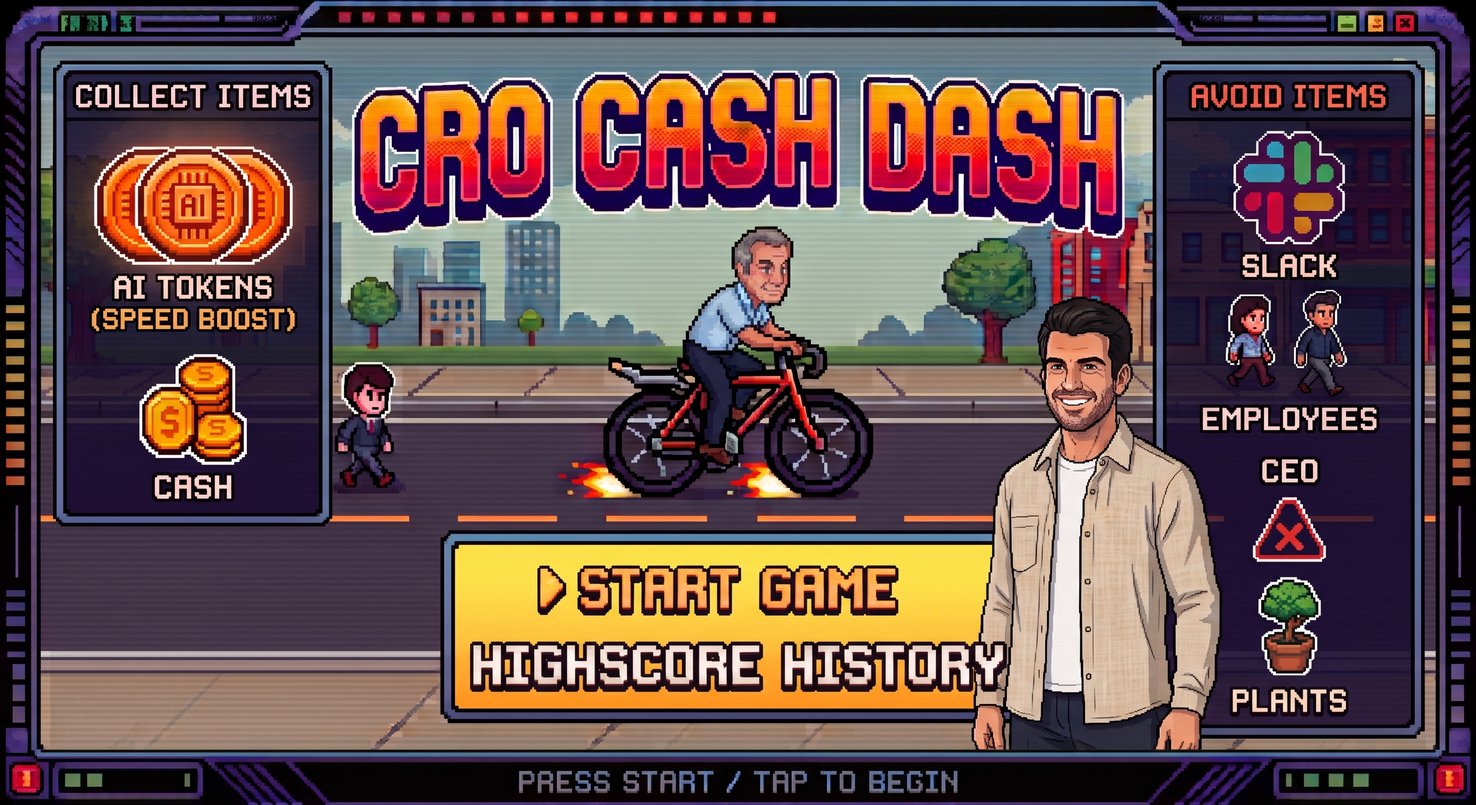
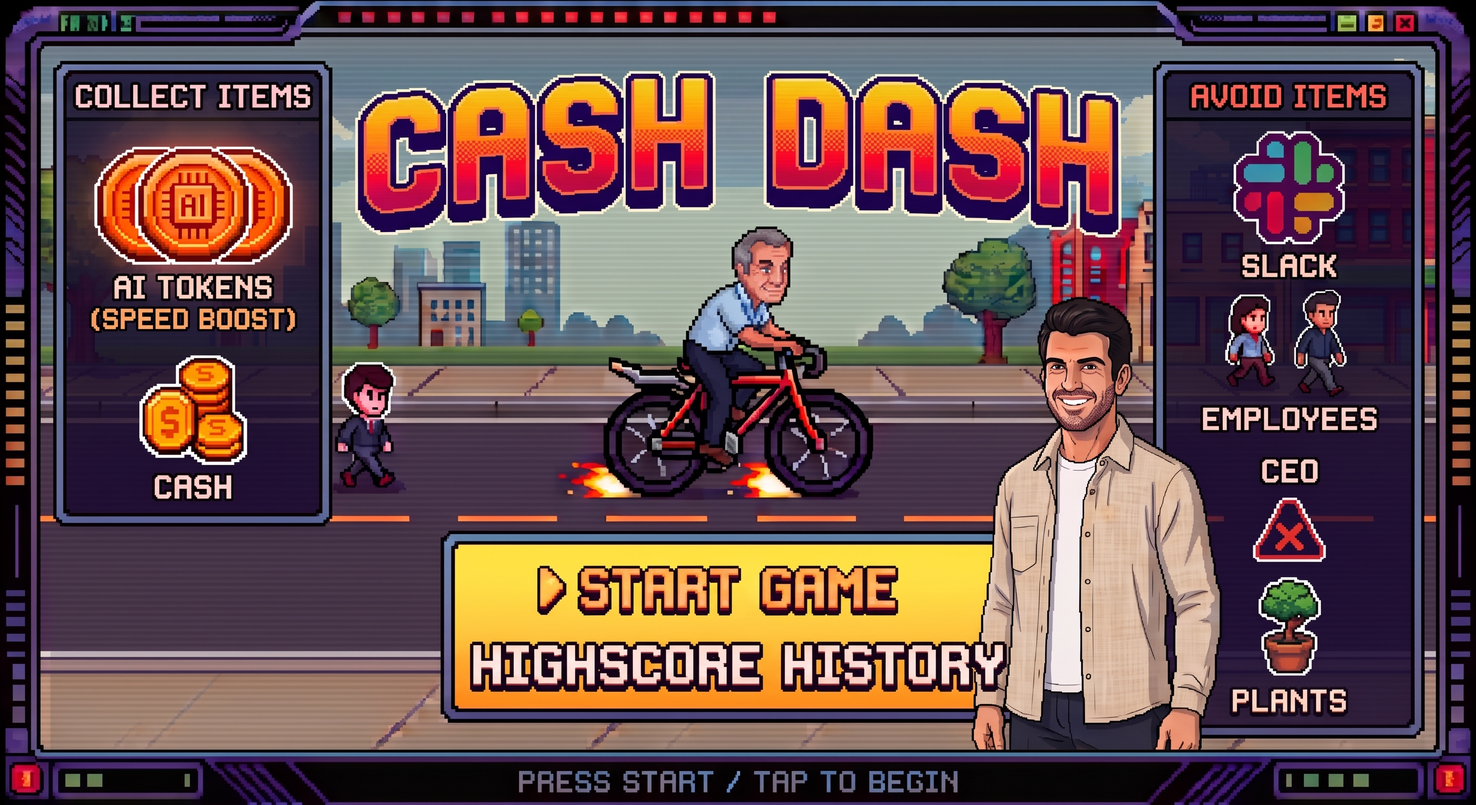
v5.1 (updated title page)

diff --git a/index.html b/index.html
@@ -466,7 +466,7 @@
   MenuScene.prototype.constructor = MenuScene;
 
   MenuScene.prototype.preload = function () {
-    this.load.image('titleBg', './assets/images/cash-dash-title.jpg?v=002');
+    this.load.image('titleBg', './assets/images/cash-dash-title.jpg?v=003');
   };
 
   MenuScene.prototype.create = function () {
